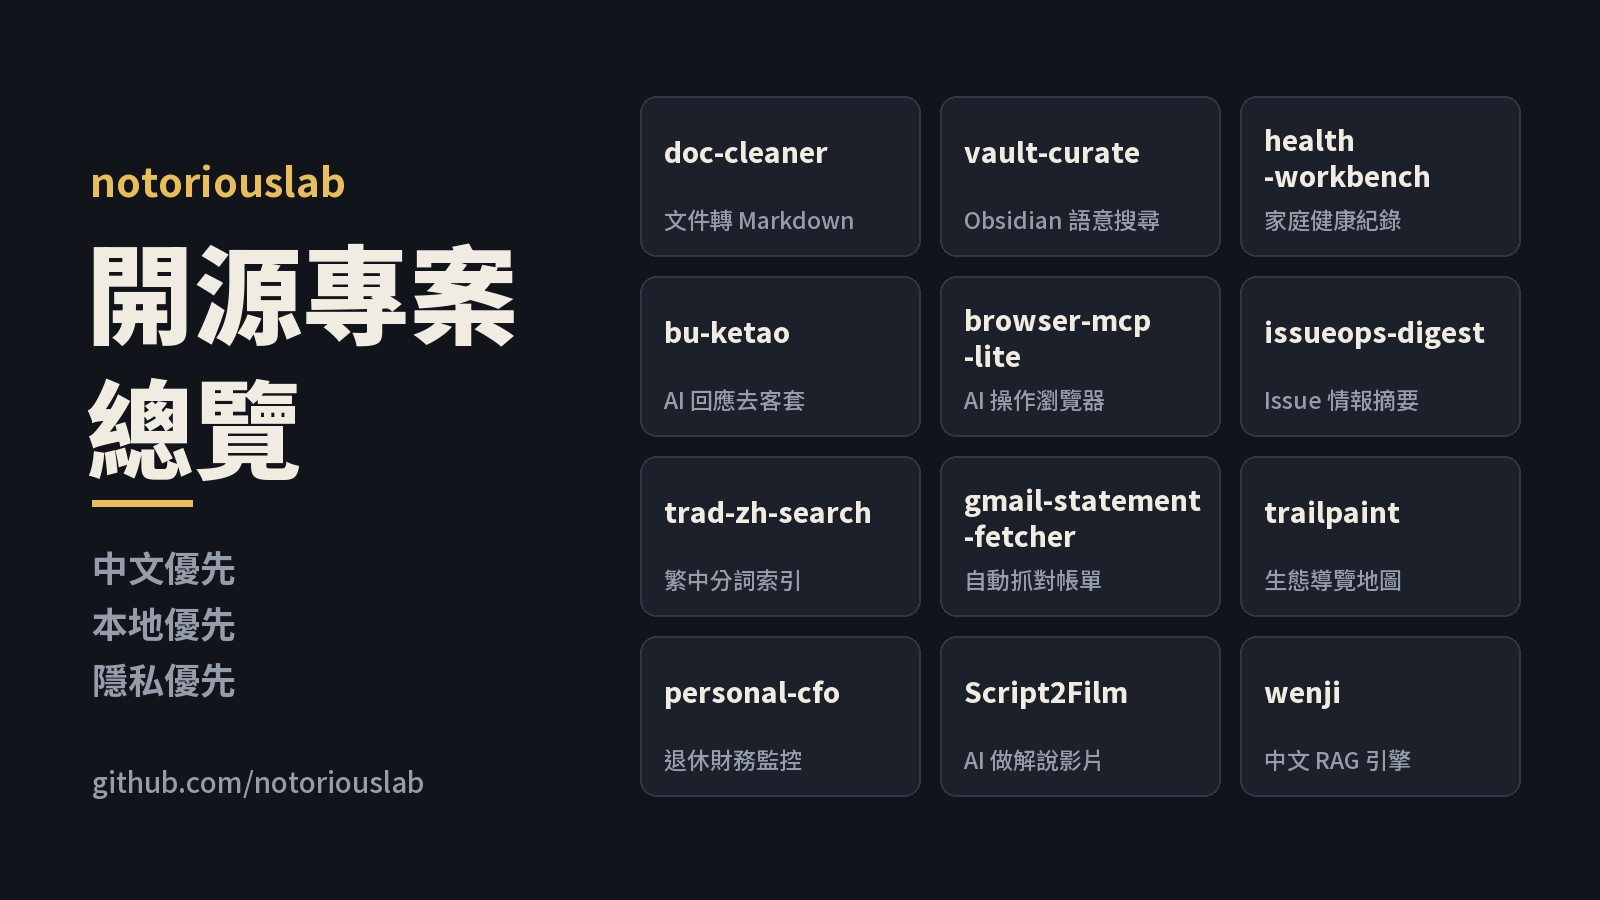
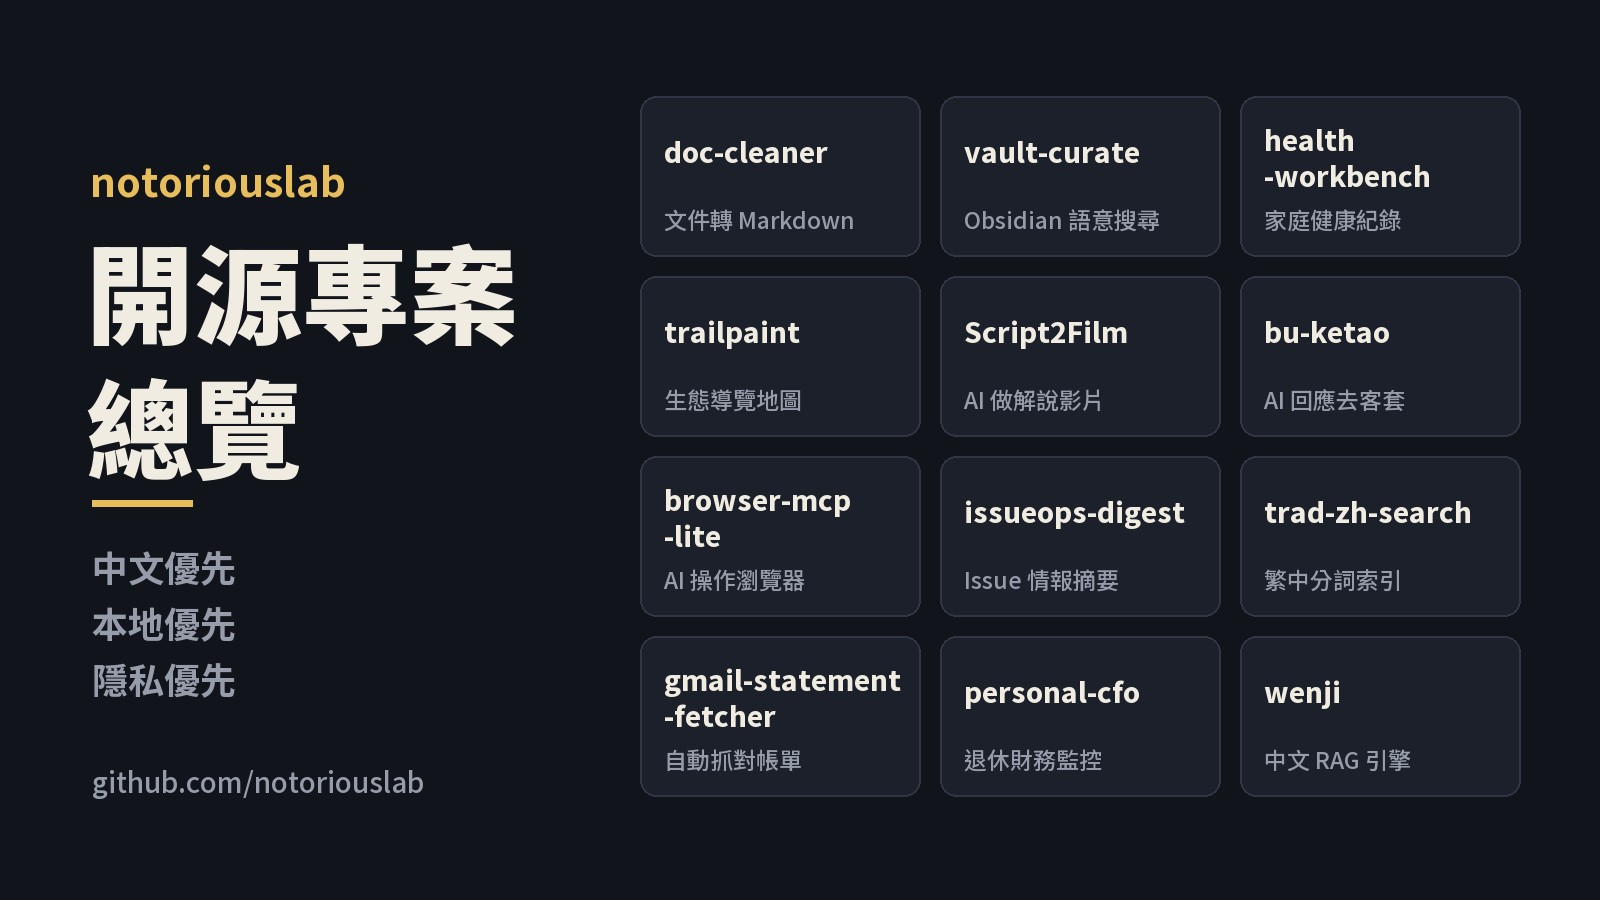
開源總覽：trailpaint 與 Script2Film 移到前三名之後，封面同步

diff --git a/src/content/blog/20260726-notoriouslab-opensource-index.md b/src/content/blog/20260726-notoriouslab-opensource-index.md
@@ -29,7 +29,7 @@ cover: ./assets/2026-11-19-notoriouslab-oss-cover.jpg
 coverAlt: notoriouslab 開源專案總覽：十二個專案名稱與一句話用途，中文優先、本地優先、隱私優先
 ---
 
-我的開源專案都放在 [github.com/notoriouslab](https://github.com/notoriouslab)。專案多了之後，發現別人（跟未來的自己）很難一眼看出哪個做什麼，所以寫這篇當總目錄：每個專案一段話講清楚它解決什麼問題、適合誰用，再加一句最新版本的重點。排序大致依 Star 數與下載數，比較多人用的放前面。以後有新專案或大改版，就直接更新這篇。
+我的開源專案都放在 [github.com/notoriouslab](https://github.com/notoriouslab)。專案多了之後，發現別人（跟未來的自己）很難一眼看出哪個做什麼，所以寫這篇當總目錄：每個專案一段話講清楚它解決什麼問題、適合誰用，再加一句最新版本的重點。排序大致依 Star 數與下載數，比較多人用的放前面（trailpaint 與 Script2Film 私心往前排）。以後有新專案或大改版，就直接更新這篇。
 
 這些專案有共同的底色：**中文優先、本地優先、隱私優先**。很多好工具對繁體中文支援很差，很多好服務要你把資料交出去，這兩件事我都不想妥協，所以自己動手。
 
@@ -63,6 +63,26 @@ Obsidian 的混合語意搜尋與 AI 策展插件：BM25 關鍵字、裝置端 W
 
 ![health-workbench 總覽（示範資料）](https://raw.githubusercontent.com/notoriouslab/health-workbench/main/docs/screenshots/overview.png)
 
+## [trailpaint（路小繪）](https://github.com/notoriouslab/trailpaint)
+
+生態地圖｜目前版本：v1.8.4｜GitHub ★ 18｜[官方網站](https://trailpaint.org/)｜[線上直接用](https://trailpaint.org/app/)
+
+把一般的地圖快速變成漂亮的教育性、導覽性生態地圖。適合步道解說、園區導覽、生態教育這類需要「好看又有資訊量」地圖的場景。匯入照片自動依拍攝時間排出路線，底圖有向量地圖與 OpenStreetMap 步道圖。零後端、資料留在瀏覽器、可離線用。
+
+**最新版本**：新的「定點時間軸」故事：地圖停在同一個地點，拉時間軸看這裡不同年代的樣子，每個階段附出處、老地圖與照片，例如[大安森林公園](https://trailpaint.org/stories/taipei-daan-park/)一個街廓的百年。
+
+![trailpaint 編輯器畫面](https://raw.githubusercontent.com/notoriouslab/trailpaint/main/examples/trailpaint-hero.jpg)
+
+## [Script2Film](https://github.com/notoriouslab/script2film)
+
+影片製作｜目前版本：v1.1.0｜[官方網站](https://notoriouslab.github.io/script2film/)
+
+給 AI agent 用的影片／解說片工具組：給它一段想法或一份稿子，Claude Code 這類 agent 照文件一步步做出有旁白、字幕、圖表與主持人的成片。核心流程（本機克隆聲音、逐字對時、27 種程式畫的場景、剪接、出片檢查）都在自己的 Mac 上跑，不用帳號，也不用 API 金鑰；VideoExpress 生成鏡頭、TalkingPhotos 主持人、YouTube 上傳都是選用。原本的 Video Prompt Studio 現在是其中一個工具（[線上版](https://notoriouslab.github.io/script2film/studio.html)）。實際做法見〈[每日得力一分鐘是怎麼每天自動做出來的](/blog/2026/1112-1jv4g2/)〉。
+
+**最新版本**：可以在自己的 Google Colab 上跑 MiniMax H3（生成鏡頭、會對嘴的主持人）與 MiniMax Music 3（歌曲或純配樂）；對話可以分給不同角色的聲音，字幕可以把關鍵字變色。
+
+![Script2Film](https://raw.githubusercontent.com/notoriouslab/script2film/main/docs/site/og-zh.jpg)
+
 ## [bu-ketao（不客套）](https://github.com/notoriouslab/bu-ketao)
 
 AI 協作｜GitHub ★ 57
@@ -95,16 +115,6 @@ AI 協作｜GitHub ★ 31
 
 自動從 Gmail 下載銀行對帳單 PDF。規則由 JSON 設定檔驅動，新增銀行不需改程式碼，支援 IMAP 與 OAuth 2.0，內建去重。跟 personal-cfo 是上下游關係：這個負責進料，那個負責分析。
 
-## [trailpaint（路小繪）](https://github.com/notoriouslab/trailpaint)
-
-生態地圖｜目前版本：v1.8.4｜GitHub ★ 18｜[官方網站](https://trailpaint.org/)｜[線上直接用](https://trailpaint.org/app/)
-
-把一般的地圖快速變成漂亮的教育性、導覽性生態地圖。適合步道解說、園區導覽、生態教育這類需要「好看又有資訊量」地圖的場景。匯入照片自動依拍攝時間排出路線，底圖有向量地圖與 OpenStreetMap 步道圖。零後端、資料留在瀏覽器、可離線用。
-
-**最新版本**：新的「定點時間軸」故事：地圖停在同一個地點，拉時間軸看這裡不同年代的樣子，每個階段附出處、老地圖與照片，例如[大安森林公園](https://trailpaint.org/stories/taipei-daan-park/)一個街廓的百年。
-
-![trailpaint 編輯器畫面](https://raw.githubusercontent.com/notoriouslab/trailpaint/main/examples/trailpaint-hero.jpg)
-
 ## [personal-cfo](https://github.com/notoriouslab/personal-cfo)
 
 個人財務｜GitHub ★ 15
@@ -112,16 +122,6 @@ AI 協作｜GitHub ★ 31
 展示非專業投資人如何用確定性運算做退休軌道監控的參考實作：銀行帳單進，財務報表出，資料全部留在本地。Fork 後改 `config.yaml` 就能依自己的情況使用。
 
 ![personal-cfo 退休投影報表](https://raw.githubusercontent.com/notoriouslab/personal-cfo/main/examples/sample_output/2026-03-16-04.png)
-
-## [Script2Film](https://github.com/notoriouslab/script2film)
-
-影片製作｜目前版本：v1.1.0｜[官方網站](https://notoriouslab.github.io/script2film/)
-
-給 AI agent 用的影片／解說片工具組：給它一段想法或一份稿子，Claude Code 這類 agent 照文件一步步做出有旁白、字幕、圖表與主持人的成片。核心流程（本機克隆聲音、逐字對時、27 種程式畫的場景、剪接、出片檢查）都在自己的 Mac 上跑，不用帳號，也不用 API 金鑰；VideoExpress 生成鏡頭、TalkingPhotos 主持人、YouTube 上傳都是選用。原本的 Video Prompt Studio 現在是其中一個工具（[線上版](https://notoriouslab.github.io/script2film/studio.html)）。實際做法見〈[每日得力一分鐘是怎麼每天自動做出來的](/blog/2026/1112-1jv4g2/)〉。
-
-**最新版本**：可以在自己的 Google Colab 上跑 MiniMax H3（生成鏡頭、會對嘴的主持人）與 MiniMax Music 3（歌曲或純配樂）；對話可以分給不同角色的聲音，字幕可以把關鍵字變色。
-
-![Script2Film](https://raw.githubusercontent.com/notoriouslab/script2film/main/docs/site/og-zh.jpg)
 
 ## [wenji（文集）](https://github.com/notoriouslab/wenji)
 
